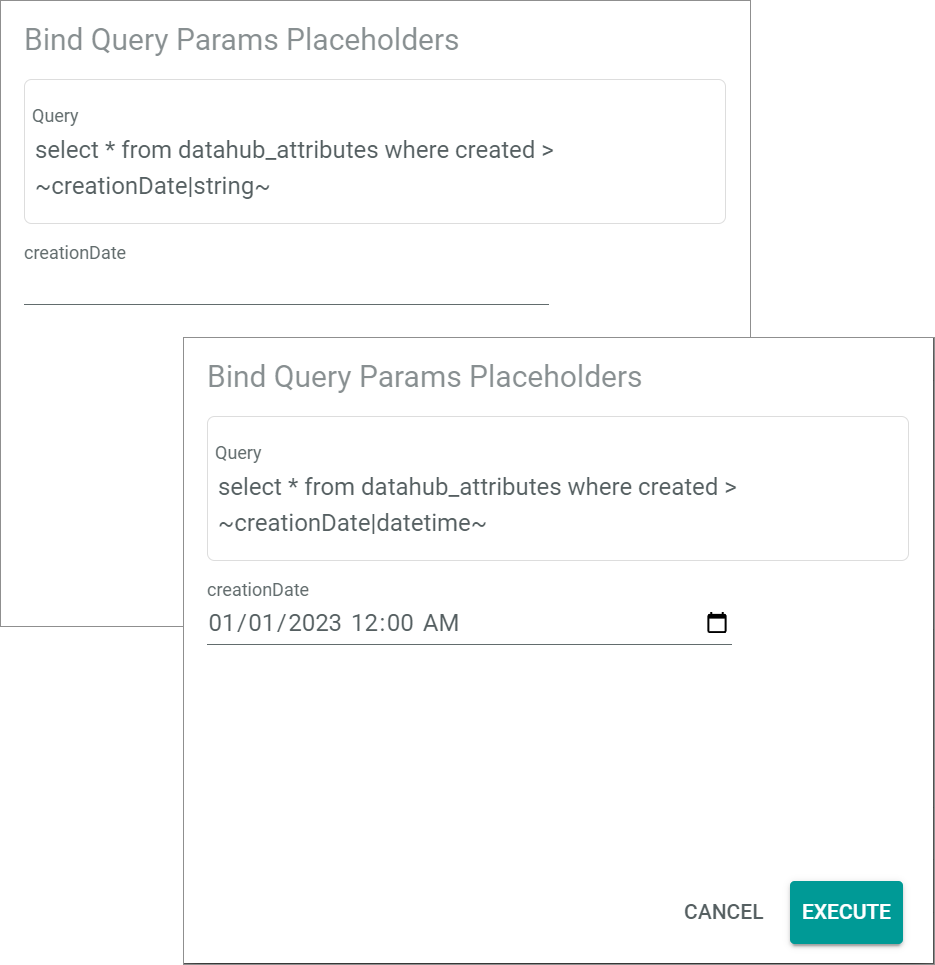
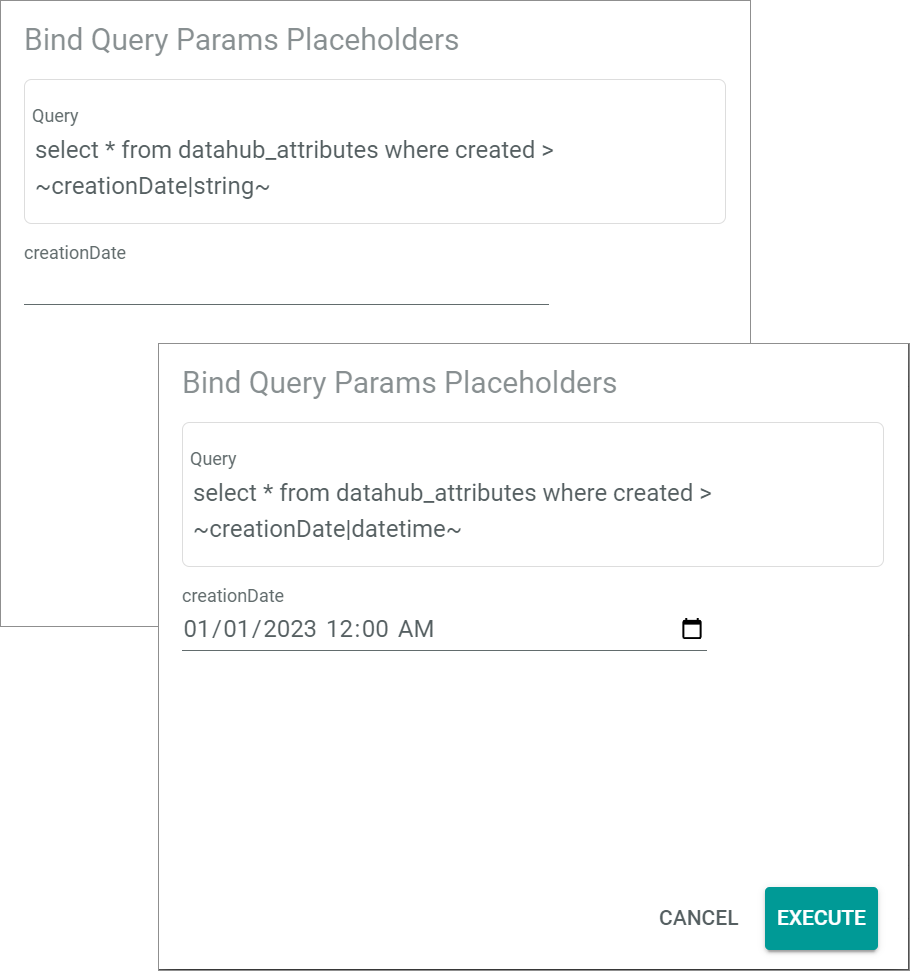
ACD-764
Add condition placeholder, minor corrections

diff --git a/DatabaseAndReporting/Integration/01_ManageQueries.md b/DatabaseAndReporting/Integration/01_ManageQueries.md
@@ -4,16 +4,16 @@
 
 # Manage the queries
 
-Queries can be predefined to determine the queries that user can execute and the data that be can accessed. Instead of entering and executing a query directly in MySQL console, the user can simply select the query to be executed from the list of queries. 
+Queries can be predefined to determine the queries that users may execute and the data that may be accessed. Instead of entering and executing a query directly in MySQL console, the user can simply select the query to be executed from the list of queries. 
 
-Access to data can be allowed via API and download or via public download. In this case, a download link and a UUID (Universally Unique Identifier) are required. Queries can be read-only, that is, the mere access to available data, or write access can be enabled, which additionally allows to modify the data contained in the database. 
+Data can be accessed via API and download, that is, users must be logged in the Core1, or via public download in a web browser. In the case of public download, a download link and a UUID (Universally Unique Identifier) are required. Queries can be read-only, that is, the mere access and retrieval of available data, or write access can be enabled, which additionally allows to modify the data contained in the database. 
 
 Managed queries can be created, edited, and deleted, as well as organized in categories, see [Manage the query categories](./02_ManageQueryCategories.md). Query access can also be restricted pro query and query category depending on the user role, see [Manage the user rights](./05_ManageUserRights.md).
 
 
 ## Create a query
 
-Define a query, determine how the data are accessed and, if necessary, add a date/time conditions.
+Define a query, determine how the data may be accessed and by whom, allow write operations, and, if necessary, add conditions with placeholders.
 
 #### Prerequisites 
 
@@ -33,52 +33,52 @@ No prerequisites to fulfill.
 
 2. Enter a name in the *Name* field.
 
-3. If desired, click the *Category* drop-down list and select teh applicable category. All available query categories are displayed in the list. 
-    > [Info] The query category can be assigned when creating the query or afterwards. To create a query category, see [Create a query category](01_ManageQueries.md#create-a-query-category).  
+3. If desired, click the *Category* drop-down list and select the applicable category. All available query categories are displayed in the list. 
+    > [Info] The query category can be assigned while creating the query or later on, after the query has been created. To create a query category, see [Create a query category](./02_ManageQueryCategories.md#create-a-query-category).  
 
 4. Enter a valid MySQL statement.  
     
-5. If desired, add a date/time condition to filter the query    results by time range following the procedure below:
+5. If desired, add a time condition to your statement in order to filter the query results by time criteria. To do so, follow the procedure below:
       
-    - Enter a condition (WHERE clause) in the query statement, for example **where created > ~creationDate|datatime~**. 
-        > [Info] The condition provided is just an example. Other conditions and descriptions may apply according to the data model and the user's information needs.
+    - Enter a condition (WHERE clause) in the query statement followed by a placeholder, for example **where created > \~creationDate|datetime\~**. 
+        > [Info] The condition provided is just an example. Other conditions and placeholders may apply according to the data model and the user's information needs.
 
-    - Click the click the [TRY QUERY (READ ONLY)] button.   
+    - Click the [TRY QUERY (READ ONLY)] button.   
         The *Bind query parameters placeholders* window is displayed.
-        > [Info] There are two possible placeholders to define date/time conditions: **|datetime** and **|string**. The **|datetime** placeholder produces a calendar field in the *Bind query parameters placeholders* window, whereas the **|string** placeholder creates a free text field.
+        > [Info] There are two possible placeholders to define time conditions: **|datetime** and **|string**. The **|datetime** placeholder generates a calendar button in the *Bind query parameters placeholders* window, whereas the **|string** placeholder creates a free text field.
 
         ![Bind query parameters placeholders](../../Assets/Screenshots/DatabaseAndReporting/ManagedQueries/Queries/BindQueryParamsPlaceholders.png "[Bind query parameters placeholders]")
 
-    - Define the desired time range in the the *creationDate* field, either by entering the date with the keyboard or by clicking the calendar button to select the desired date and time. 
+    - Define the desired time criteria in the *creationDate* field, either by entering the date with the keyboard or by clicking the calendar button to select the desired date and time. 
 
     - Click the [EXECUTE] button.   
-        The query results are displayed in table format at the bottom of the workspace. The date/time condition has been added to query.
+        The query results are displayed in table format at the bottom of the workspace. The time condition has been added to the query.
 
 [comment]: <> (ETL use enabled vorest ignorieren, laut JS)
 
 5. If desired, enter one or several IP addresses or an IP range (subnet mask) in the *IP whitelist (only public download)* field to allow access only to those IP addresses entered in case of public download.  
     > [Info] When entering more than one IP address, each IP address must be entered on a separate line. 
 
-6. Select the *API and download enabled* checkbox to allow logged in users with the appropriate rights to execute the query and export the retrieved data.
-    > [Info] Additionally, the user rights must be granted access for every single query, see [Manage the user rights](./05_ManageUserRights.md).
+6. Select the *API and download enabled* checkbox to allow logged in users with the appropriate rights to execute the query and download the retrieved data.
+    > [Info] Additionally, user access rights must be granted for every single query, see [Manage the user rights](./05_ManageUserRights.md).
 
 [comment]: <> (Evtl. Link updaten, wenn relevanter Unterkapitel definiert wird)
 
-7. Select the *Public download enabled* checkbox to allow any user, also non-logged in users, with the applicable link to execute the query and export the retrieved data in a web browser. 
+7. Select the *Public download enabled* checkbox to allow any user, also non-logged in users, with the applicable link to execute the query and download the retrieved data via web browser. 
     > [Info] In addition to the corresponding download link, a UUID (Universally Unique Identifier) is required to execute the query in a web browser.
 
-8. Select the *Write access enabled* checkbox to allow write operations when executing the query. Otherwise, the query is not executed and an error message is displayed.
+8. Select the *Write access enabled* checkbox to allow write operations when executing the query. Otherwise, a query with write operations, such as INSERT or DELETE, will not be executed and an error message will be displayed.
 
 9. If desired, click the [TRY QUERY (READ ONLY)] button to test the query.  
   The query results are displayed in table format at the bottom of the workspace.
 
 10. Click the [SAVE] button.  
-  The query has been saved. The *Create MySQL query* is closed.
+   The query has been saved. The *Create MySQL query* is closed. The newly created query is displayed in the list of queries.
 
 
 ## Edit a query
 
-Edit a query to change any previously set values or add an operation.
+After you have a created a query, it can be edited to change any previously set values. The fields *ID* and *UUID*, however, are automatically assigned by the system and cannot be modified.
 
 #### Prerequisites 
 
@@ -92,18 +92,17 @@ A query has been created, see [Create a query](#create-a-query).
 
 
 1. Click the query to be edited in the list of queries. Alternatively, select the checkbox of the query to be edited and click the ![Edit](../../Assets/Icons/Edit01.png) (Edit) button in the editing toolbar.  
-    The *Edit MySQL query* is displayed.
+    The *Edit MySQL query* view is displayed.
 
     ![Queries](../../Assets/Screenshots/DatabaseAndReporting/ManagedQueries/Queries/EditQuery.png "[Queries]")
 
-2. Modify the query set values as necessary.
-    > [Info] The fields *ID* and *UUID* are automatically assigned by the system and cannot be modified.
-
+2. Edit the query set values as necessary in the corresponding fields and checkboxes.
+    
 3. If desired, click the [TRY QUERY (READ ONLY)] button to test the query.  
   The query results are displayed in table format at the bottom of the workspace.
 
 4. Click the [SAVE] button.  
-  The changes have been saved. The *Create MySQL query* is closed. 
+  The changes have been saved. The *Edit MySQL query* is closed. 
 
 
 ## Delete a query
@@ -112,7 +111,7 @@ Delete a query that is no longer needed. It is possible to several queries at on
 
 #### Prerequisites 
 
-A query has been created, see [Create a query](#create-a-query).
+At last a query has been created, see [Create a query](#create-a-query).
 
 #### Procedure
 
@@ -121,16 +120,12 @@ A query has been created, see [Create a query](#create-a-query).
 ![Queries](../../Assets/Screenshots/DatabaseAndReporting/ManagedQueries/Queries/Queries.png "[Queries]")
 
 
-1. Click the query to be deleted in the list of queries. Alternatively, select the checkbox of the query to be deleted and click the ![Delete](../../Assets/Icons/Trash03.png) (Delete) button in the editing toolbar.  
+1. Select the checkbox of the query to be deleted.   
+    The editing toolbar is displayed.
+
+2. Click the ![Delete](../../Assets/Icons/Trash03.png) (Delete) button in the editing toolbar.  
     The *Deleted queries xxxx* window is displayed. The number indicates the identifier of the deleted query as displayed in the *ID* column. The deleted query is removed from the list of queries. 
 
+    ![Queries](../../Assets/Screenshots/DatabaseAndReporting/ManagedQueries/Queries/DeletedQueries.png "[Queries]")
 
-
-## Restrict access to a query (public download)
-
-[comment]: <> (Vielleicht nicht nötig, s. Create a query. Evtl. löschen)
-
-#### Prerequisites 
-
-#### Procedure
 
